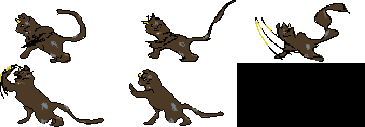
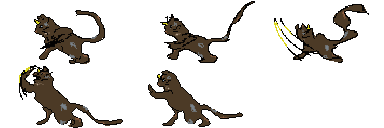
アニメーション全般の調整

diff --git a/Assets/scripts/catdemon.cs b/Assets/scripts/catdemon.cs
@@ -40,7 +40,7 @@ public class catdemon : MonoBehaviour
 
         // "Player"�^�O���t����GameObject���擾
         taregtObject = GameObject.Find("player");
-        this.animator.SetInteger("color", Random.Range(0, 1));
+        this.animator.SetInteger("color", Random.Range(0, 3));
     }
 
     // Update is called once per frame
